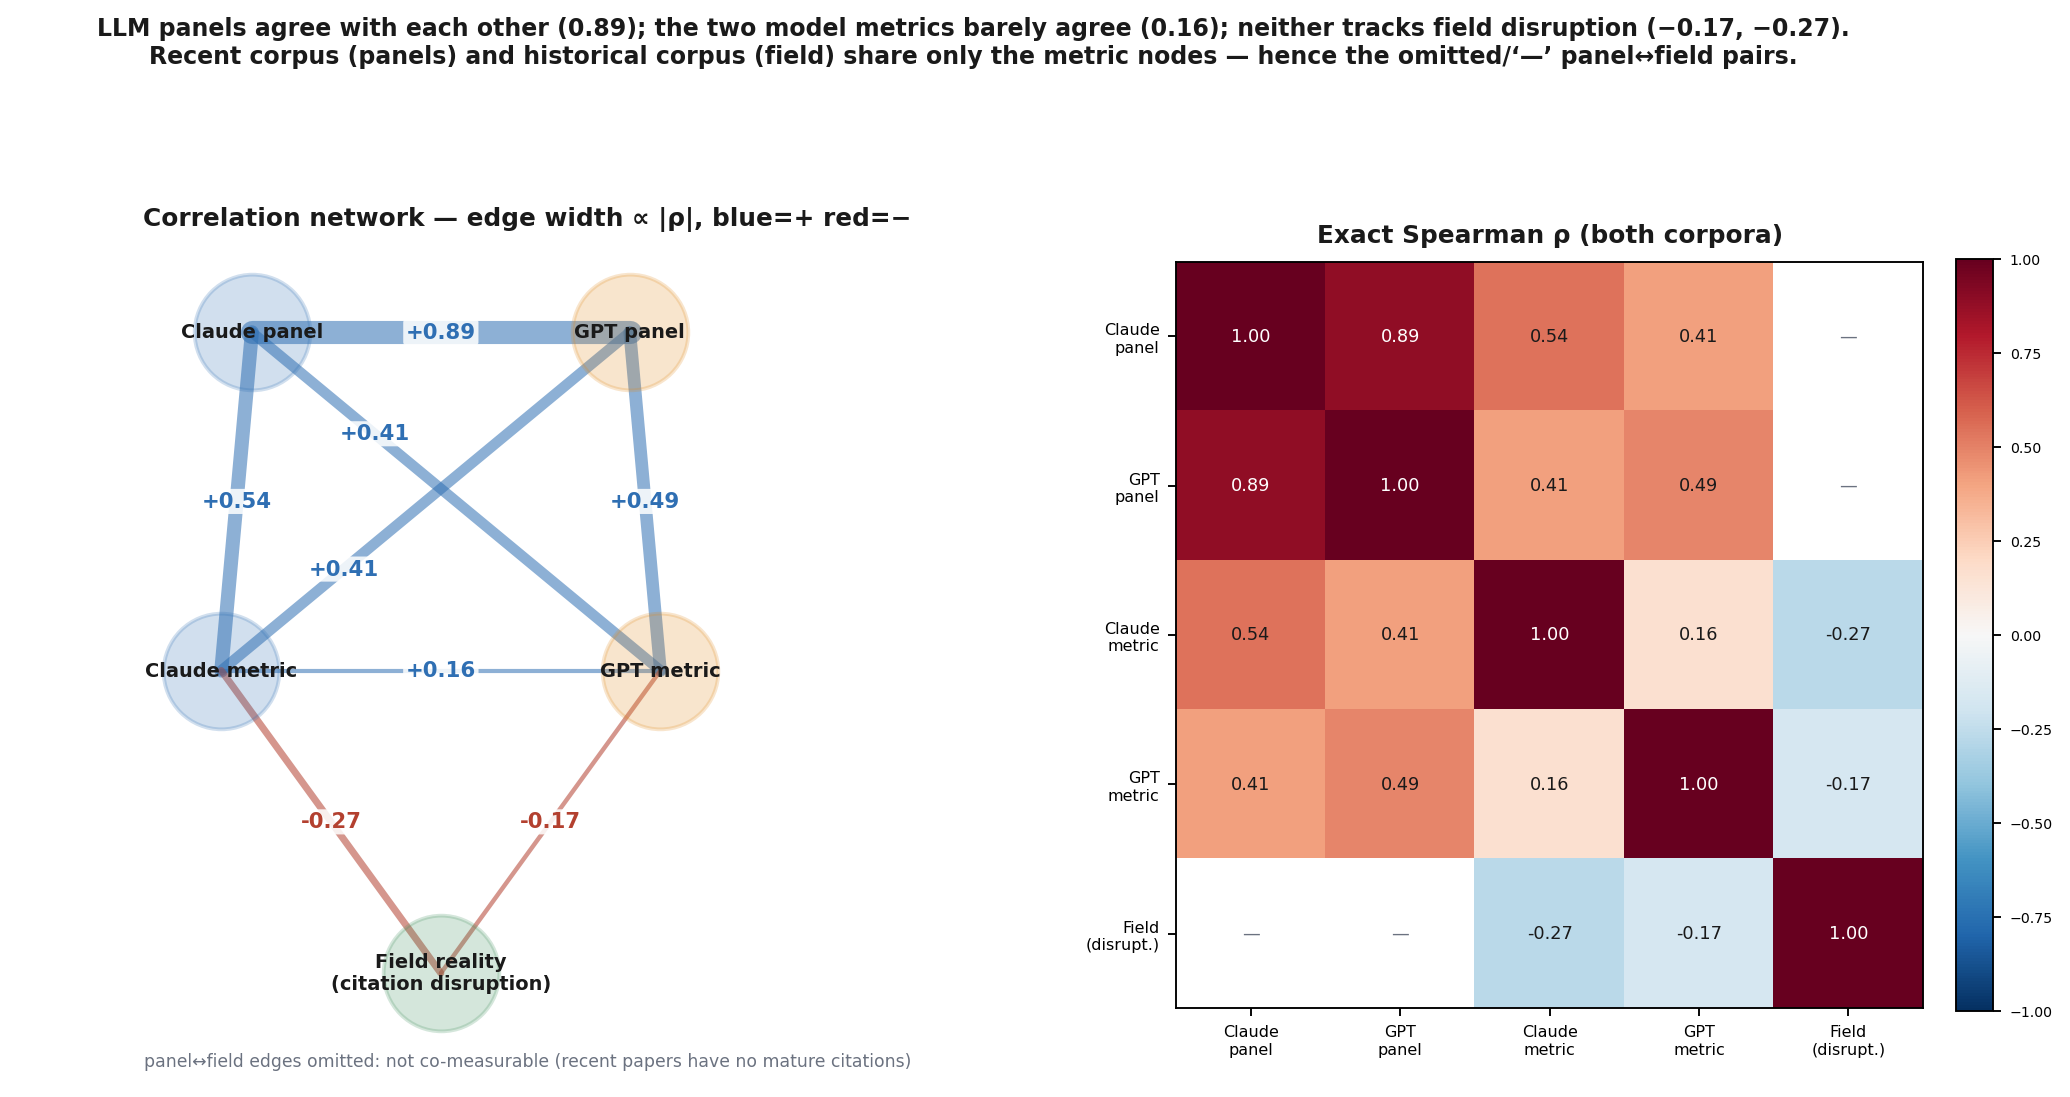
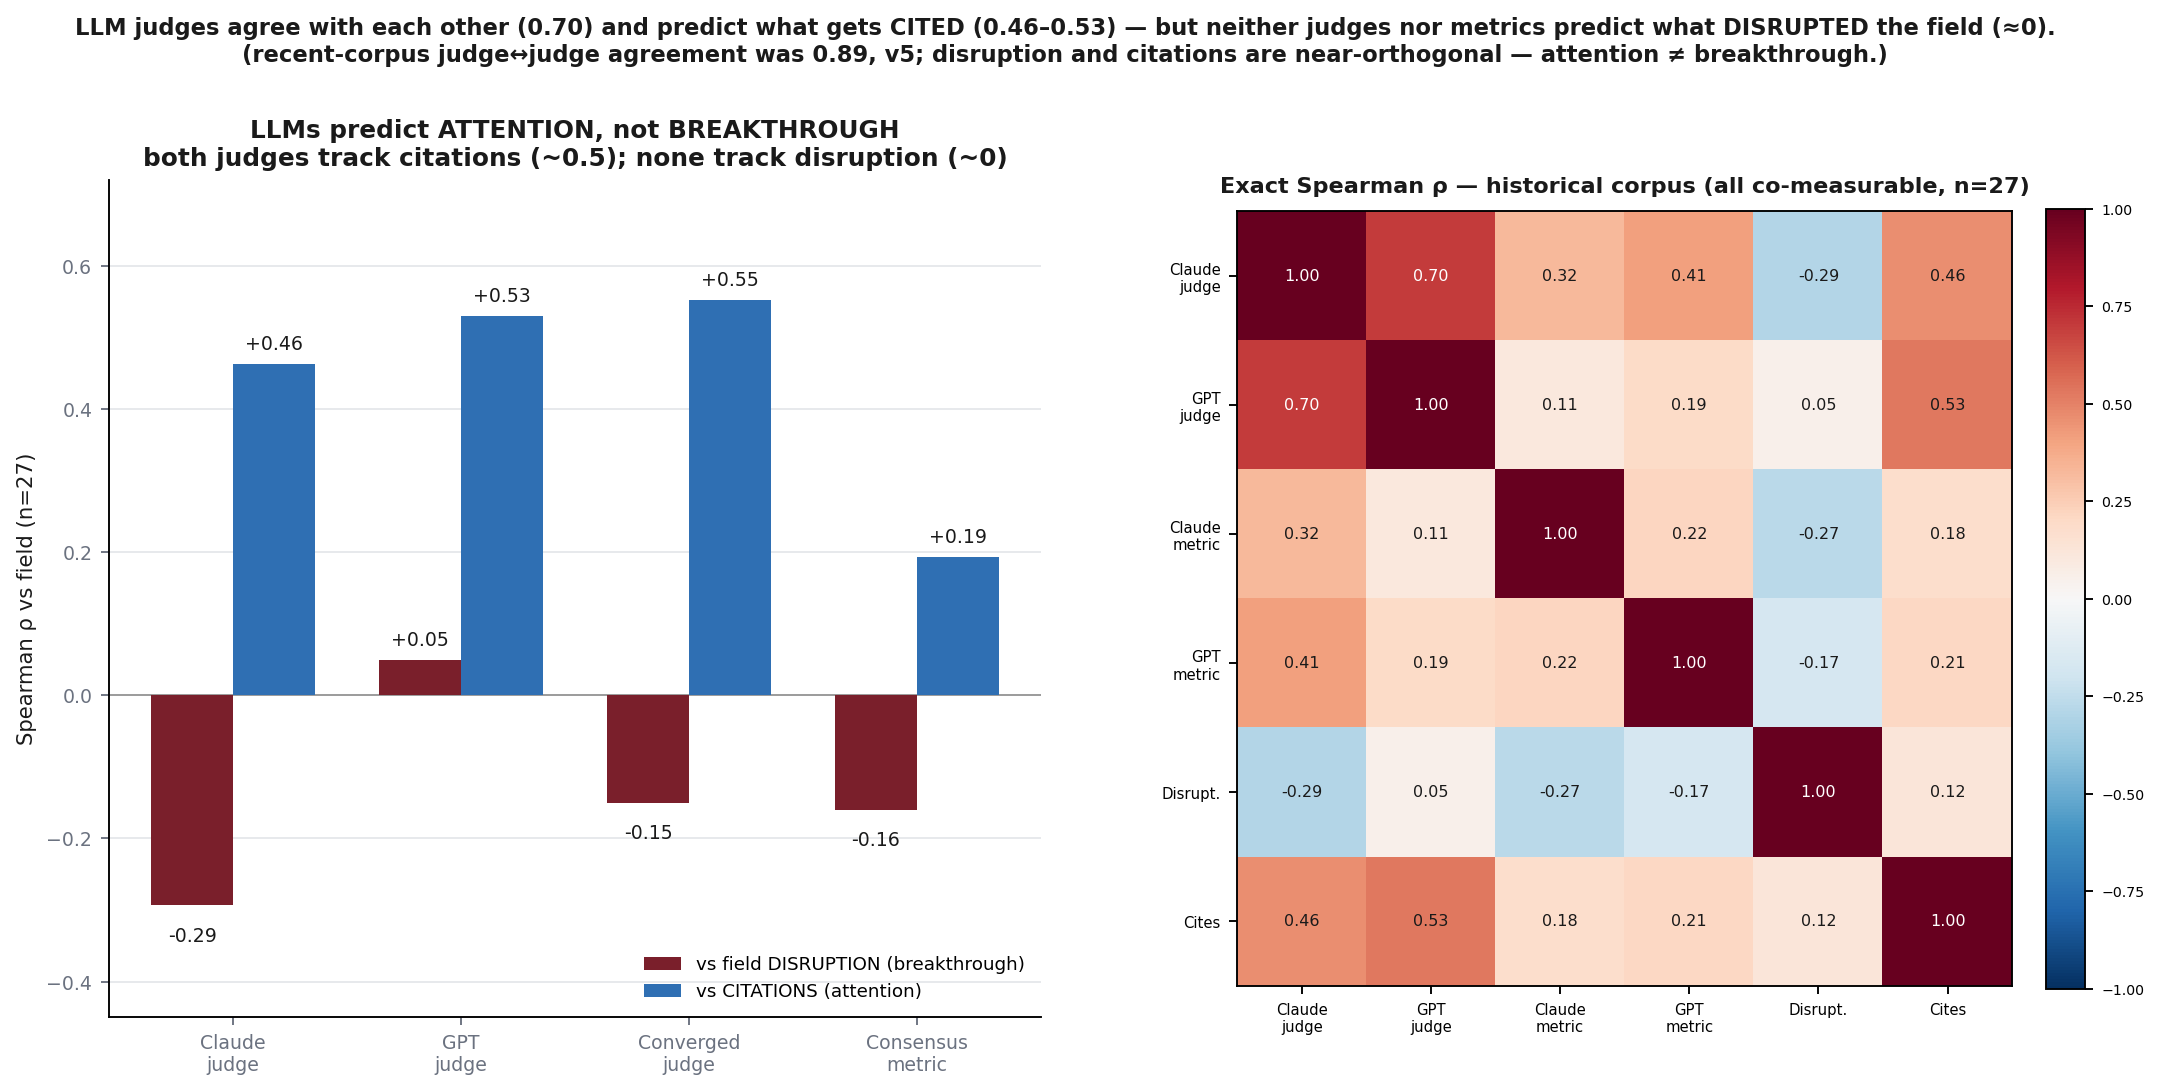
Historical paper: LLM judges predict attention not breakthrough (judge-vs-field) + tournament next-steps

diff --git a/experiment/breakthrough/historical/judge_ft_claude_workflow.js b/experiment/breakthrough/historical/judge_ft_claude_workflow.js
@@ -1,0 +1,15 @@
+export const meta = {
+  name: 'historical-fulltext-judge-claude',
+  description: 'Claude directly judges breakthrough-ness (0-100) from full text on the historical corpus — to correlate LLM JUDGEMENT (not the metric) against field outcome',
+  phases: [{ title: 'Judge-FT', detail: 'one Claude agent per paper rates breakthrough-ness from full text' }],
+}
+const items = typeof args === 'string' ? JSON.parse(args) : args
+const SCHEMA = { type:'object', additionalProperties:false, required:['breakthrough_score'],
+  properties:{ breakthrough_score:{type:'integer', minimum:0, maximum:100} } }
+phase('Judge-FT')
+const res = await parallel(items.map(it => () =>
+  agent(`Read the full text at ${it.path} (a research paper, published at its time). Rate how much of a scientific BREAKTHROUGH it is — its potential to reshape the field — on 0-100. Judge ONLY from the paper at publication time; use NO hindsight about its later citations or influence. Anchor: 90-100 field-redefining landmark; 65-89 significant new finding/method; 40-64 solid; 15-39 incremental; 0-14 non-contribution (report/review/re-estimate). Output only the JSON.`,
+    {label:`fjudge:${it.slug}`, phase:'Judge-FT', schema:SCHEMA, agentType:'general-purpose', effort:'low'})
+    .then(o => ({slug:it.slug, score: o && o.breakthrough_score})) ))
+const out={}; for(const r of res){ if(r) out[r.slug]=r.score }
+return out

diff --git a/experiment/breakthrough/historical/judge_ft_gpt.py b/experiment/breakthrough/historical/judge_ft_gpt.py
@@ -1,0 +1,24 @@
+#!/usr/bin/env python3
+import json, os, subprocess, glob
+S="jscore_schema.json"
+open(S,"w").write(json.dumps({"type":"object","additionalProperties":False,"required":["breakthrough_score"],
+ "properties":{"breakthrough_score":{"type":"integer","minimum":0,"maximum":100}}}))
+P="""Rate how much of a scientific BREAKTHROUGH this paper is (potential to reshape its field) on 0-100, judging ONLY from the paper at publication time with NO hindsight about later citations/influence. Anchor: 90-100 field-redefining; 65-89 significant; 40-64 solid; 15-39 incremental; 0-14 non-contribution. Output only the JSON.
+
+PAPER FULL TEXT:
+"""
+out=json.load(open("judge_ft_gpt.json")) if os.path.exists("judge_ft_gpt.json") else {}
+for i,fp in enumerate(sorted(glob.glob("fulltext/*.txt"))):
+    slug=os.path.splitext(os.path.basename(fp))[0]
+    if slug in out: continue
+    txt=open(fp,errors="ignore").read()[:14000]
+    try:
+        r=subprocess.run(["codex","exec","-s","read-only","--skip-git-repo-check","--ephemeral","--output-schema",S,"-"],
+                         input=P+txt,capture_output=True,text=True,timeout=150)
+        sc=None
+        for line in reversed(r.stdout.strip().splitlines()):
+            if line.strip().startswith("{") and "breakthrough_score" in line: sc=json.loads(line.strip())["breakthrough_score"]; break
+        out[slug]=sc; print(i+1,slug,"->",sc,flush=True)
+    except Exception as e: out[slug]=None; print(i+1,slug,"ERR",str(e)[:30],flush=True)
+    json.dump(out,open("judge_ft_gpt.json","w"),indent=1)
+print("done")

diff --git a/experiment/breakthrough/historical/HISTORICAL_PAPER.md b/experiment/breakthrough/historical/HISTORICAL_PAPER.md
@@ -6,7 +6,7 @@
 
 ## Abstract
 
-**The question, stated as a prediction task:** given a paper *at publication time only* — holding out everything that cited it afterward — can a metric predict its eventual **breakthrough effect** (did the field pivot on it?) or its **convergence effect** (did it consolidate a field?). v5 built the candidate metric (`max(peak, cwmean)` over typed contributions) and validated it only against an LLM expert panel (ρ ≈ 0.58 same-model, but ≈ 0.34 cross-model — ≈⅓ shared-model bias). Here the target carries **no LLM at all**: **72 Alzheimer's papers from 2004–2010**, metric computed from full text at publication time (typed **twice — Claude and GPT-5.5**), the outcome read from **15–20 years of downstream citations** as a Funk–Owen-Smith disruption index (breakthrough = disruptive; convergence = consolidating). **Answer: no, for either effect.** Predicting breakthrough: Spearman −0.16 (95% CI [−0.56, +0.28]), classification **AUC 0.35** (below chance). Predicting convergence: ρ +0.16 (CI [−0.29, +0.57]), **AUC 0.58** (barely above chance). Both straddle chance — the metric predicts neither — though it leans, weakly and symmetrically, *toward convergence and away from breakthrough*. The two models' metrics agree only ρ ≈ 0.17, so there isn't even a stable construct; meanwhile the two v5 LLM *judge panels* agree at ρ = 0.89. **LLMs agree with LLMs; no LLM-derived metric agrees with the field.**
+**The question, stated as a prediction task:** given a paper *at publication time only* — holding out everything that cited it afterward — can a metric predict its eventual **breakthrough effect** (did the field pivot on it?) or its **convergence effect** (did it consolidate a field?). v5 built the candidate metric (`max(peak, cwmean)` over typed contributions) and validated it only against an LLM expert panel (ρ ≈ 0.58 same-model, but ≈ 0.34 cross-model — ≈⅓ shared-model bias). Here the target carries **no LLM at all**: **72 Alzheimer's papers from 2004–2010**, metric computed from full text at publication time (typed **twice — Claude and GPT-5.5**), the outcome read from **15–20 years of downstream citations** as a Funk–Owen-Smith disruption index (breakthrough = disruptive; convergence = consolidating). **Answer: no, for either effect.** Predicting breakthrough: Spearman −0.16 (95% CI [−0.56, +0.28]), classification **AUC 0.35** (below chance). Predicting convergence: ρ +0.16 (CI [−0.29, +0.57]), **AUC 0.58** (barely above chance). Both straddle chance — the metric predicts neither. We then ran the stronger check: a **direct LLM breakthrough *judgment*** (not the metric) on the same historical papers, by both models. The judges agree with each other (ρ = 0.70) and **predict what gets cited** (ρ ≈ 0.46–0.55) — but **not what disrupts the field** (converged judge vs disruption ρ = −0.15). Since disruption and citations are near-orthogonal, the finding is sharp: **LLMs — whether as a metric or as a direct judge — have learned the *attention* axis (what will be cited), not the *breakthrough* axis (what will reshape the field).** LLMs agree with LLMs; no LLM signal agrees with field disruption.
 
 ## 1. Why this study
 
@@ -17,15 +17,29 @@ v5 built the metric and validated it against a blind LLM expert panel, reaching 
 - **Corpus — historical, so the future has already happened.** 72 Alzheimer's papers published **2004–2010** (16–22 years of downstream record), pulled from OpenAlex with tight AD relevance and **stratified across the impact distribution** (citations 13–3,280) so the sample spans eventual duds *and* eventual landmarks — the contrast a discrimination test requires. Final full-text set: **35/72**, split **LOW=20 / MID=8 / HIGH=7** (the paywalled low-cite tail was the hardest to obtain and is the essential control class).
 - **Predictor — the exact v5 metric, at publication time.** `max(peak, cwmean)` over typed contributions, computed from each paper's **full text**, with the typing agent told explicitly to use **no hindsight** about later impact. (v5's first pass used abstracts only, which compressed the metric's variance; full text here decompresses it — Claude range 0.28–0.80.)
 - **Dual-model — to separate signal from model idiosyncrasy.** Contributions were typed **independently by Claude and by GPT-5.5** (via `codex`), and we report each model's metric, their agreement, and their consensus (average). If a "contribution depth" construct is real, the two should agree and both should track the field.
-- **Ground truth — downstream citations, no LLM.** For each paper we built its mature citer set from OpenAlex and computed a **Funk–Owen-Smith disruption index (mDI)**: does later work cite this paper *while dropping its predecessors* (disruptive → a step-change) or *alongside* them (consolidating → convergence)? We also report raw citation count (impact). The **breakthrough** reading is `metric vs +mDI`; the **convergence** reading is `metric vs −mDI`.
+- **A direct LLM judge, too — not only the metric.** To test whether the metric's failure is specific to *contribution typing* or general to *LLM judgment*, we also had each model **directly rate breakthrough-ness 0–100** from full text (no hindsight), and correlated those ratings against the field. This is the comparison v5 could not make: its judge panels ran on the recent corpus, which has no downstream citations.
+- **Ground truth — downstream citations, no LLM.** For each paper we built its mature citer set from OpenAlex and computed a **Funk–Owen-Smith disruption index (mDI)**: does later work cite this paper *while dropping its predecessors* (disruptive → a step-change) or *alongside* them (consolidating → convergence)? We also report raw citation count (impact). The **breakthrough** reading is `signal vs +mDI`; the **convergence** reading is `signal vs −mDI`; **attention** is `signal vs citations`.
 
 ## 3. Results
 
-Every pairwise overlap, across both corpora:
+We measured two publication-time signals on the historical corpus — the **metric** (contribution typing) *and* a **direct LLM breakthrough judgment** (0–100, full text, no hindsight) — each computed by **both Claude and GPT**, and correlated all of them against two field outcomes: **disruption** (breakthrough) and **raw citations** (attention). On the historical corpus every signal is co-measurable (all on the same papers), so the matrix below has no gaps.
 
 ![Overlap map](figures/overlap_figure.png)
 
-*Left — correlation network (edge width strictly ∝ |ρ|, blue = positive, red = negative). The two LLM judge panels sit on a thick edge (ρ=0.89); each metric links to its own-model panel moderately (0.49–0.54) and cross-model a bit less (0.41); the two model metrics link only thinly to each other (0.16); and both link to field disruption on thin red (negative) edges (−0.17, −0.27). Right — the exact Spearman matrix. "—" marks pairs not co-measurable: the LLM panels were run on the recent corpus (no mature citations) and field disruption on the historical corpus, so panel↔field was never measured on shared papers — which is why the two validations use different paper sets and are never cross-substituted.*
+*Left — each predictor (Claude judge, GPT judge, their converged average, and the consensus metric) vs the two field outcomes. Every predictor tracks **citations** (blue, ρ ≈ 0.2–0.55) but **not disruption** (dark red, ρ ≈ 0). Right — the exact 6×6 Spearman matrix on the historical corpus (n=27). The LLM judges agree with each other (0.70) and with citations (0.46/0.53); disruption is nearly orthogonal to everything an LLM produces.*
+
+**LLM judgement vs the field (the cell v5 never had — panels there had no downstream citations):**
+
+| predictor | vs disruption (breakthrough) | vs citations (attention) |
+|---|---|---|
+| Claude judge | −0.29 | +0.46 |
+| GPT judge | +0.05 | +0.53 |
+| **Converged judge** | **−0.15** (95% CI [−0.48, +0.25]) | **+0.55** |
+| Consensus metric | −0.16 | +0.19 |
+
+**Judge–judge agreement (historical):** ρ = 0.70 (vs 0.89 on the recent corpus). So the two model families share a notion of "breakthrough-ness" — and that shared notion **predicts what gets cited (≈0.5), not what disrupts the field (≈0).** Since disruption and citations are near-orthogonal, the LLMs have learned the **attention** axis, not the **breakthrough** axis.
+
+**The two prediction tasks** (consensus metric, rank skill = Spearman, decision skill = AUC of top-tercile classification, 0.5 = chance):
 
 **The two prediction tasks** (consensus metric, n=27 with ≥10 mature citers; rank skill = Spearman, decision skill = AUC of top-tercile classification where 0.5 = chance):
 
@@ -52,7 +66,23 @@ Both tasks straddle chance — the publication-time metric predicts **neither** 
 - **Disruption proxy.** mDI over a capped citer window is a standard but noisy disruption estimate; results are reported across citer-count thresholds and are sign-unstable at very small n.
 - **Access wall (itself a finding).** Historical full text is heavily paywalled; the low-cite control papers required manual retrieval. The substrate's premise — "compile the literature" — is access-blocked for exactly the historical controls a discrimination study needs.
 
-## 6. Conclusion
+## 6. Next step — a field-optimized tournament, and the data shapes it needs
+
+The natural successor to v5's tournament, redesigned around this study's central lesson: **optimize against the field, not against an LLM.** Outline:
+
+- **Fitness = held-out field prediction**, not an LLM panel. The tournament scores candidate metrics on their ability to predict *downstream disruption / consolidation* under k-fold cross-validation, with a **held-out domain** as the final gate. (This is the one change that would have prevented v5's shared-method inflation from the start.)
+- **Precondition: scale the corpus** to n ≈ 300–500 across **multiple vintages and ≥2 domains** before any tournament — fitting formulas to a noisy real target on n=27 would overfit worse than v5 did against a clean LLM panel. The corpus is the long pole; the tournament is cheap once it exists.
+- **Two tracks** — breakthrough (predict disruption) and convergence (predict consolidation) — since attention, disruption and consolidation are distinct axes.
+- **Three admissibility gates** on any proposed feature: (1) *publication-time only* (deterministic no-leakage check); (2) *cross-model stability* — an LLM-derived feature must agree across ≥2 model families (contribution typing agrees only ρ≈0.17, so it is inadmissible as-is — this structurally bars shared-method-bias features); (3) *prefer deterministic-over-judgment* — features computed from the structured graph outscore LLM readings.
+- **Candidate new data shapes to test** (each earns a place in the SPEC only if it lifts held-out field prediction), all publication-time and mostly deterministic — the opposite of contribution-depth:
+  - **reference-set dispersion / bridging** — embedding or co-citation distance *among a paper's own references* (bridging distant literatures predicts disruption); needs a reference-embedding field on the resolved spine.
+  - **atypical-combination score** — do the paper's concept/entity *pairs* co-occur rarely in prior literature (Uzzi-style); needs a corpus-wide co-occurrence prior over the entity layer.
+  - **novel-entity introduction rate** — entities/methods with no prior occurrence at the publication date; needs the entity layer + a temporal index.
+  - **stance-to-prior-art** — does the paper *refute/depart from* vs *extend* its anchors; needs the unbuilt claim↔reference stance edges (L4/L6).
+
+The honest prior, given this study: even relational features may fail, because **disruption is conferred by the field afterward, not encoded in the paper at publication.** A tournament that returns another null would itself be the finding — that publication-time text does not contain the breakthrough signal, only the attention signal.
+
+## 7. Conclusion
 
 The v5 metric is a **triage prior that flags LLM-perceived contribution depth**, not a validated breakthrough forecaster. Three independent strengthenings — cross-model panels (v5 §9), full-text typing, and dual-model computation — all converge on the same verdict against real field outcomes: **no reliable predictive power**. To move past this, a metric needs either (a) a genuinely model-independent signal (the two LLMs' 0.17 agreement says contribution-typing isn't one), or (b) a signal built from the downstream record itself (replication, reuse, stance edges) rather than from a single reading of the paper. Building the metric *from* the field-response graph — not asking an LLM to predict it — is the direction this null points to.
 